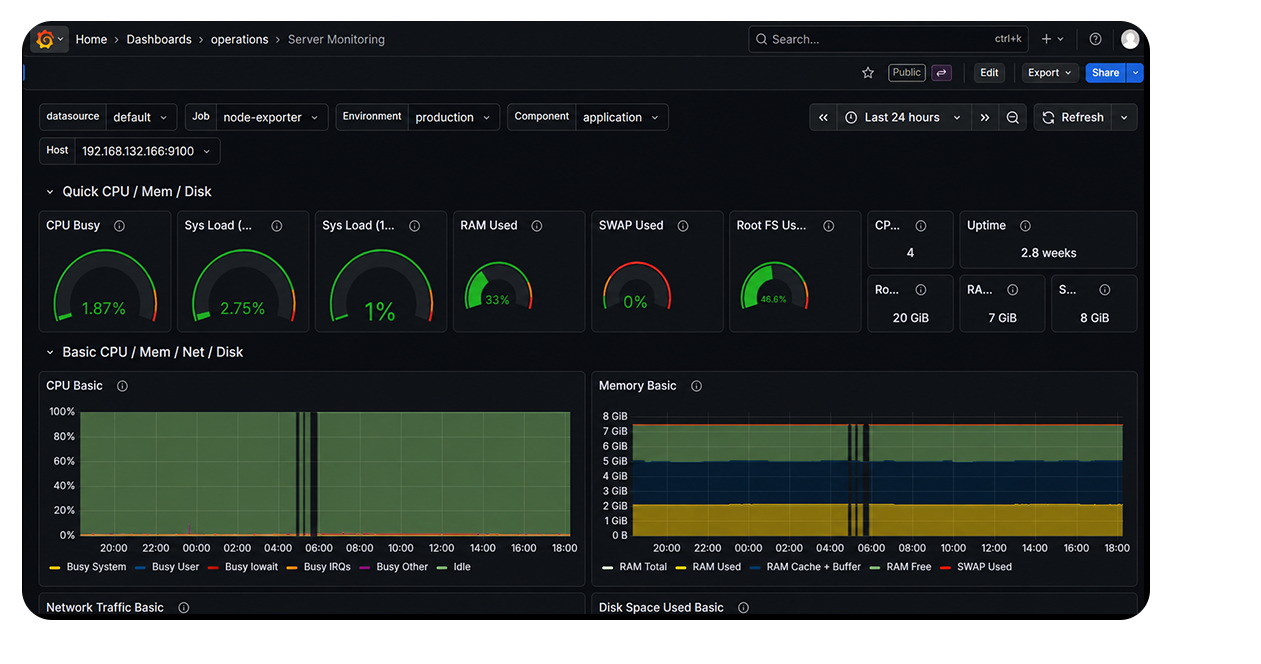
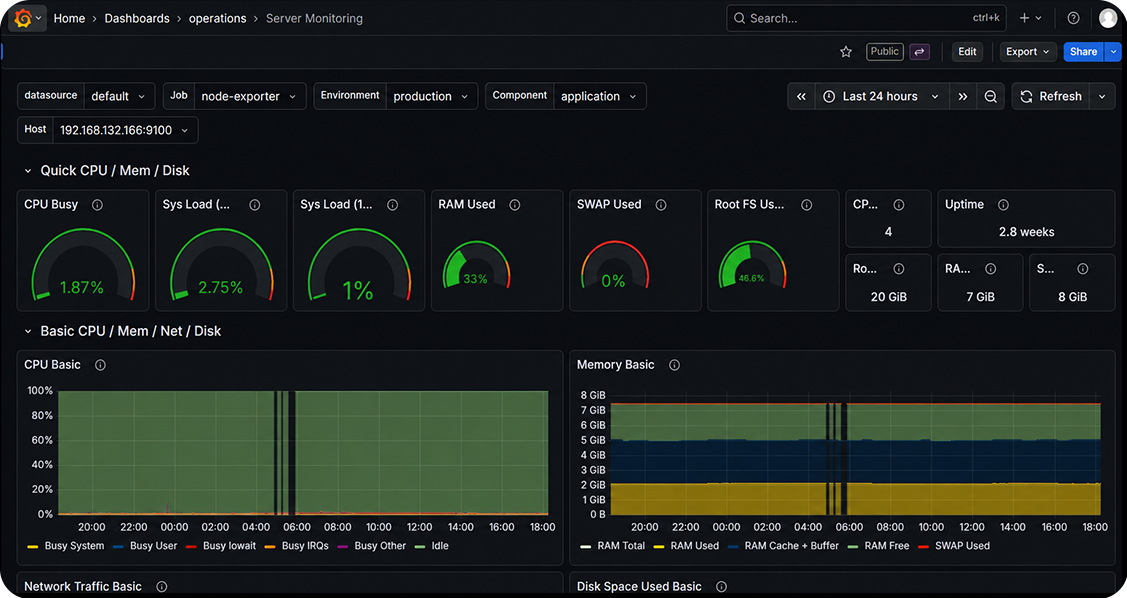
style(oscar): rognage et affichage plein ecran pour le dashboard

diff --git a/app/solutions/solutions-content.tsx b/app/solutions/solutions-content.tsx
@@ -235,15 +235,13 @@ export function SolutionsContent() {
             viewport={{ once: true }}
             transition={{ duration: 0.6, delay: 0.3 }}
           >
-            <div className="rounded-2xl overflow-hidden shadow-xl border border-[#E5E0DC]">
-              <Image
-                src="/images/oscar/oscar-dashboard.png"
-                alt="Dashboard OSCAR — supervision des ressources, disponibilité et indicateurs techniques"
-                width={1400}
-                height={700}
-                className="w-full h-auto"
-              />
-            </div>
+            <Image
+              src="/images/oscar/oscar-dashboard.png"
+              alt="Dashboard OSCAR — supervision des ressources, disponibilité et indicateurs techniques"
+              width={1127}
+              height={598}
+              className="w-full h-auto block rounded-2xl shadow-xl transition-transform duration-500 ease-out hover:scale-[1.03] cursor-zoom-in"
+            />
             <p className="mt-4 text-sm text-[#221E1F]/50 flex items-center gap-2">
               <Activity className="w-4 h-4" />
               Dashboard OSCAR : supervision des ressources, disponibilité et indicateurs techniques.
